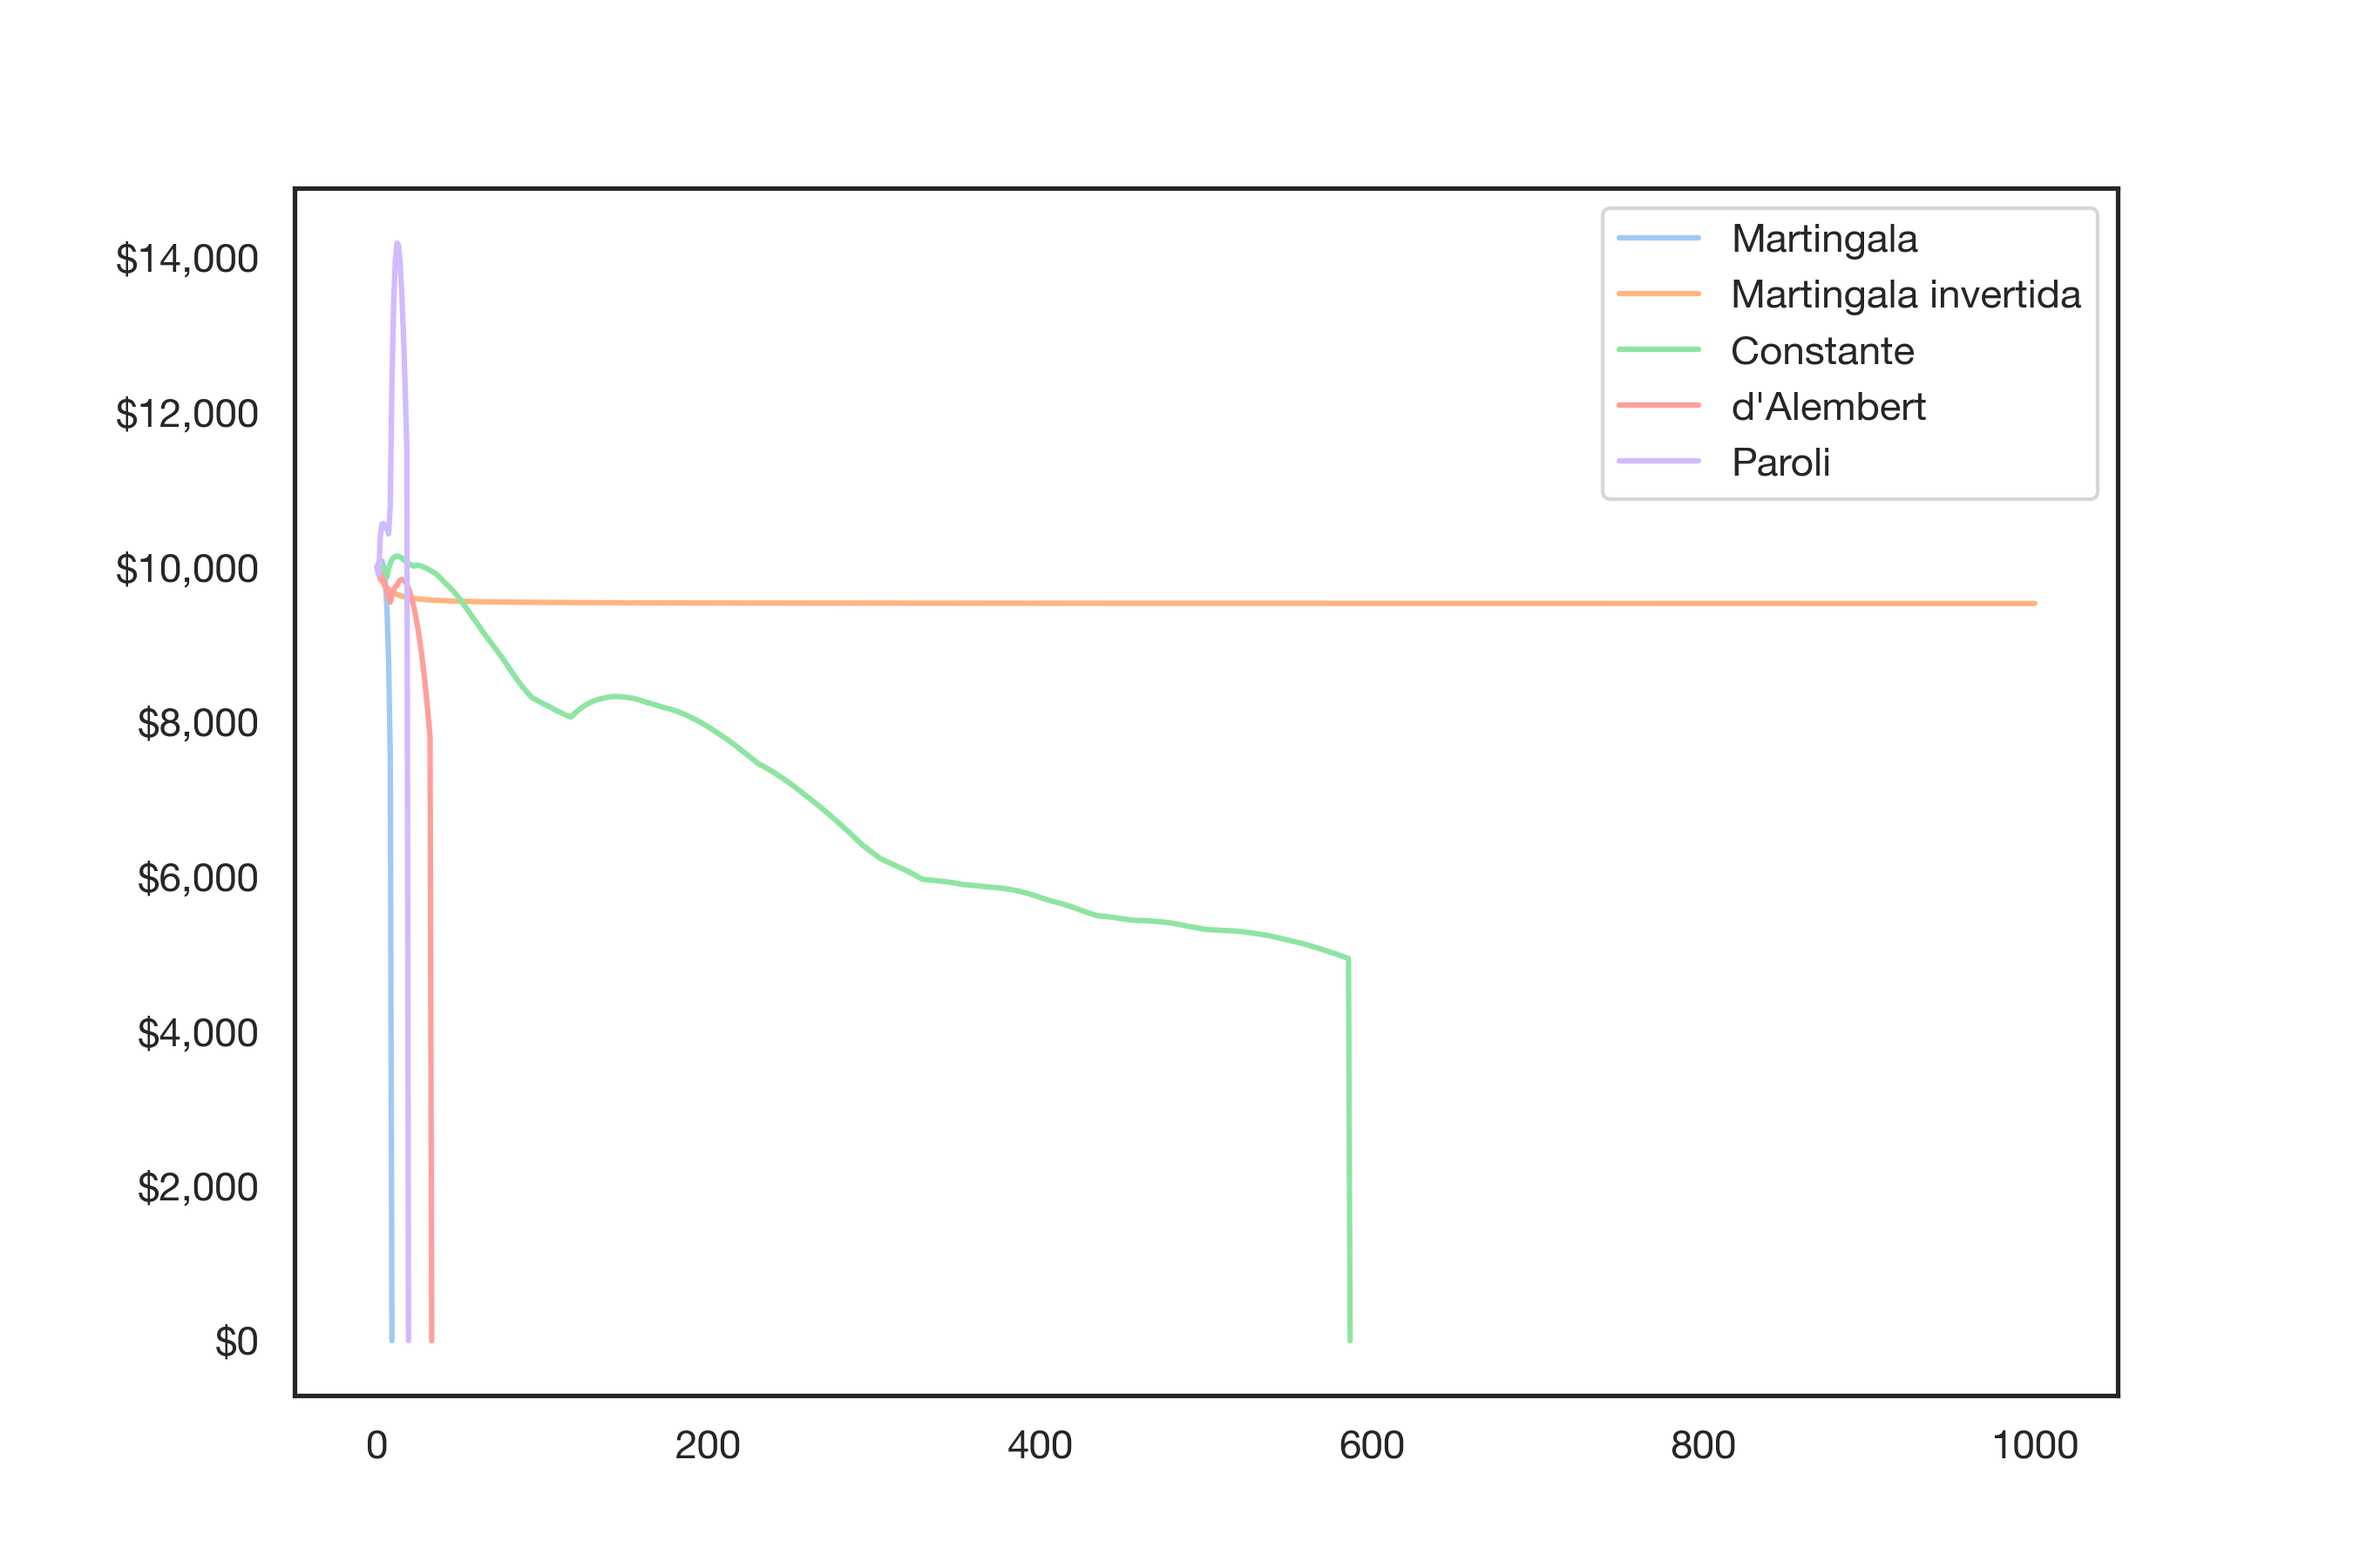
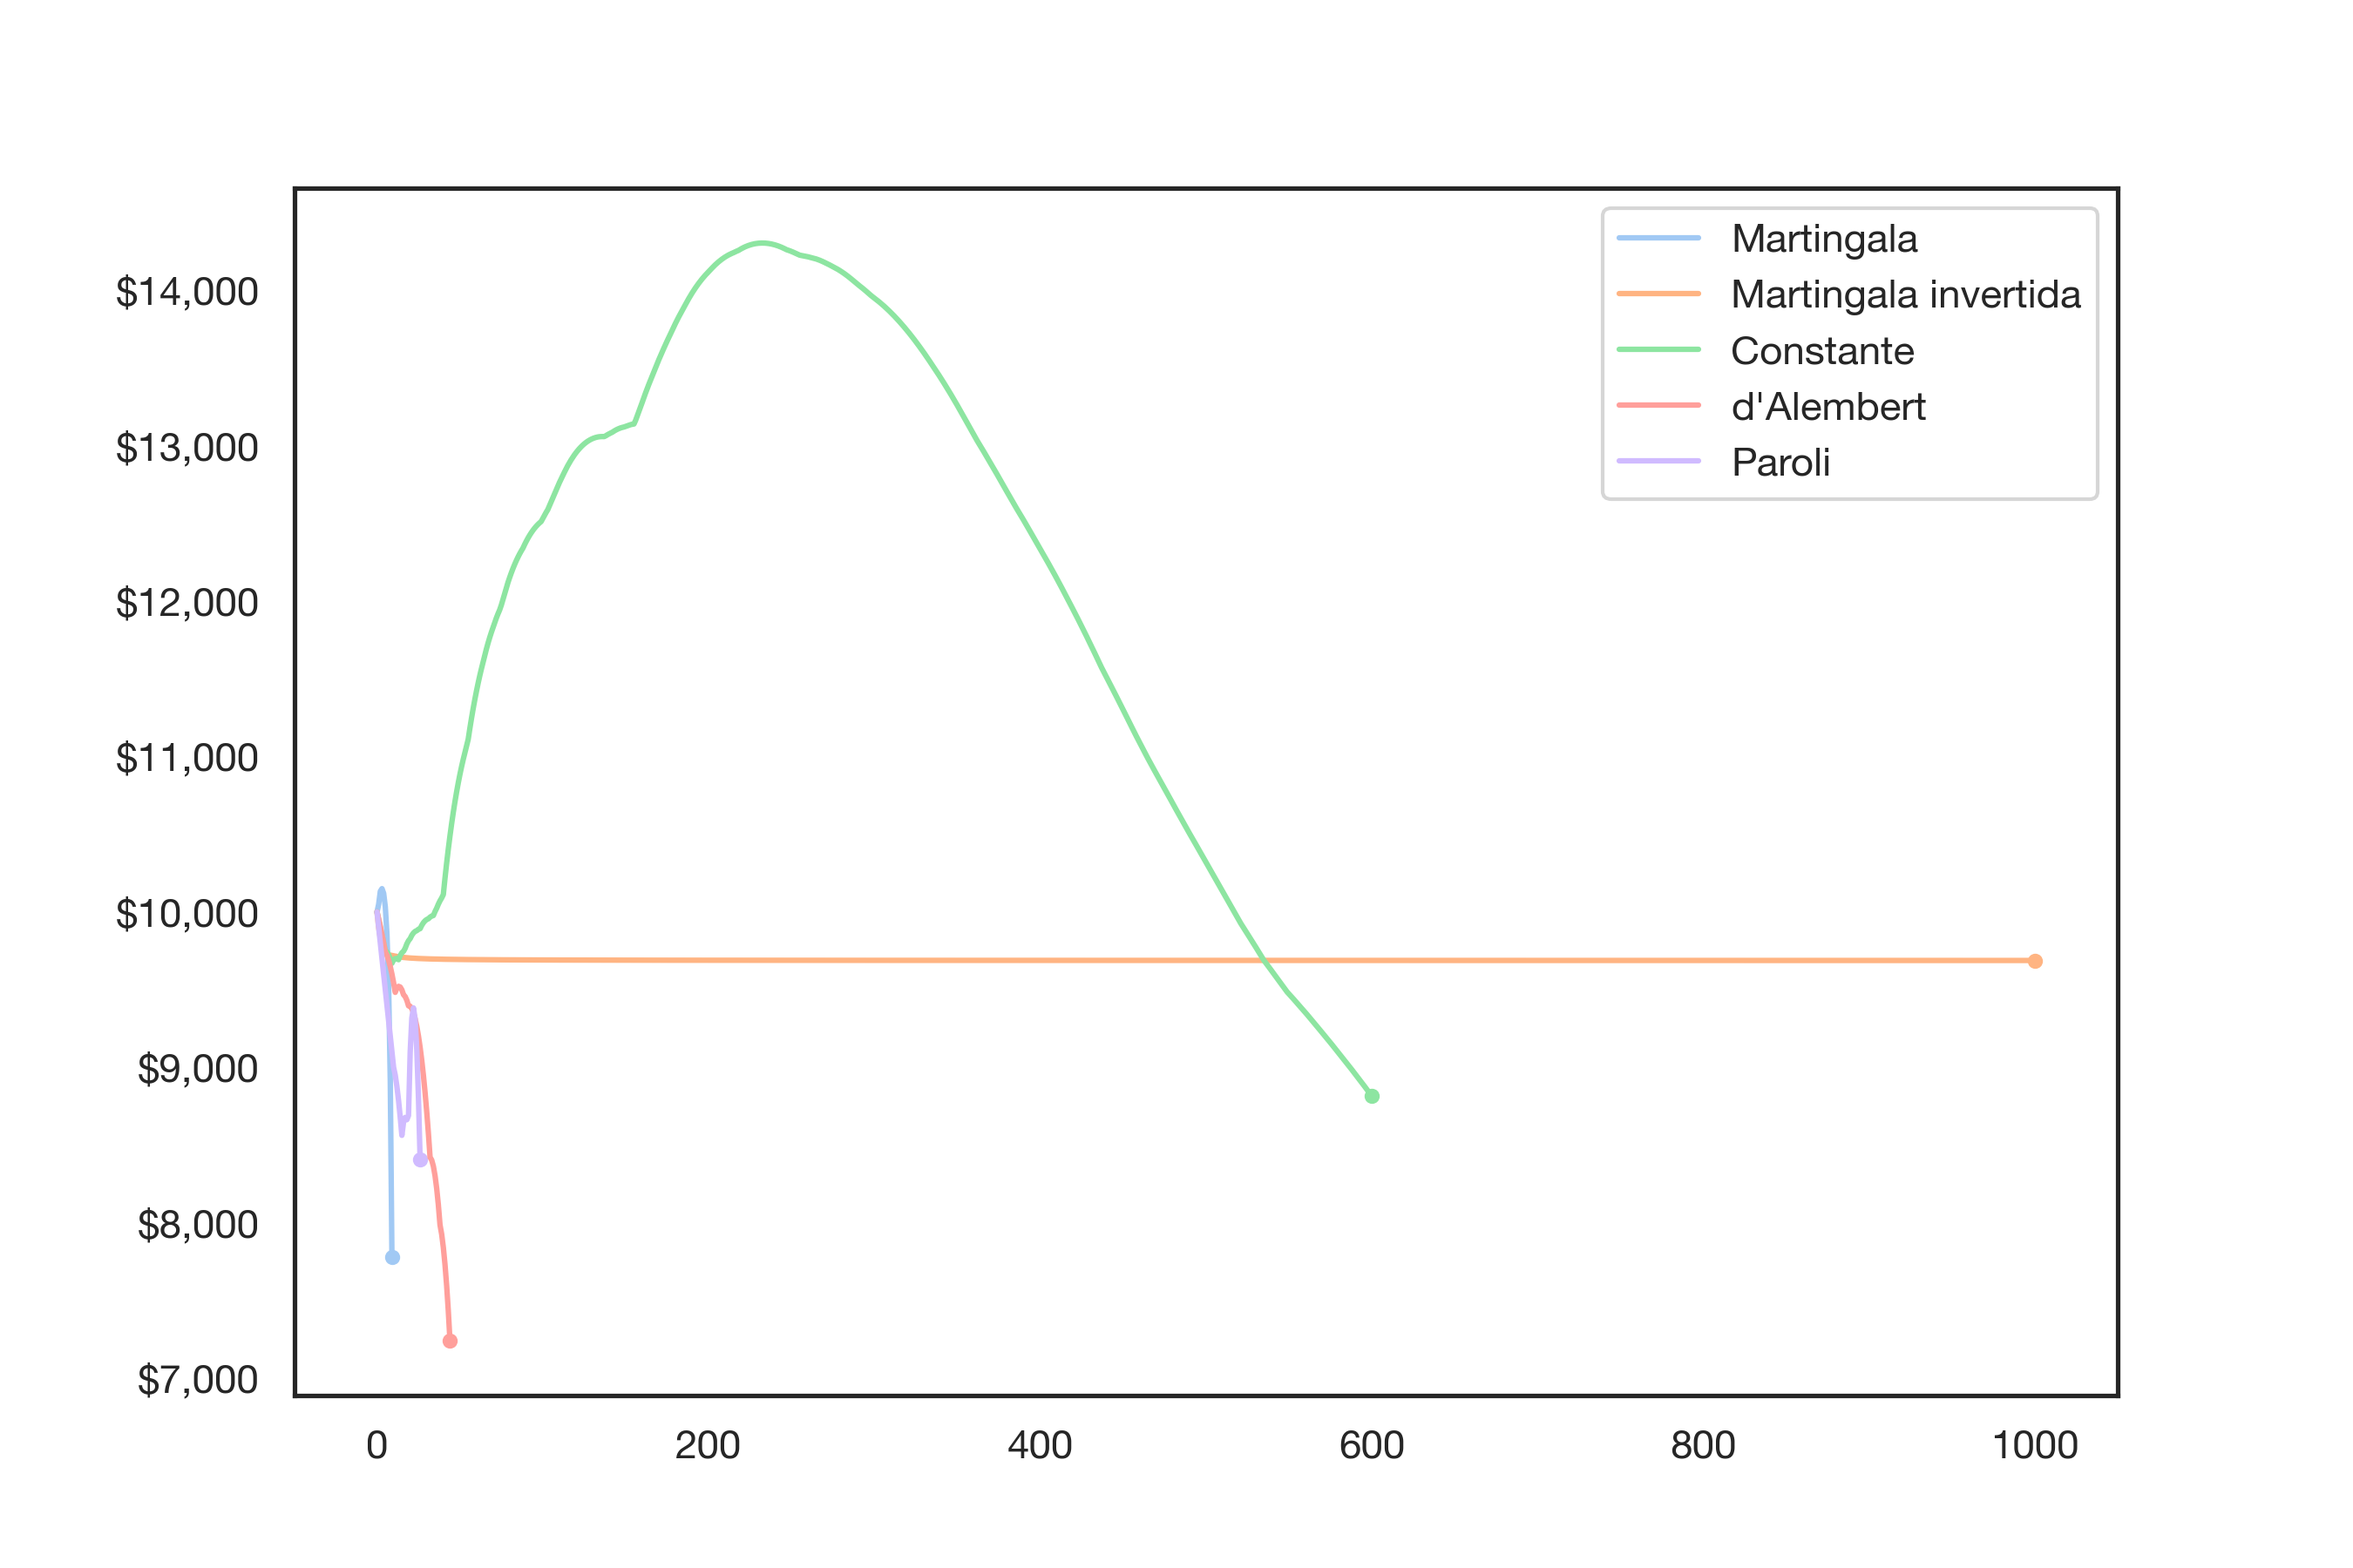
fix simulations

diff --git a/hw1/casino-roulette/simulation.py b/hw1/casino-roulette/simulation.py
@@ -118,10 +118,7 @@ def simulate(strategy, bet_types, starting_funds, max_num_bets):
             previous_result = 1
         else:
             previous_result = 0
-    expected_value = np.cumsum(funds) / np.arange(1, len(funds) + 1)
-    if len(expected_value) < max_num_bets:
-        expected_value = np.append(expected_value, 0)
-    return expected_value
+    return np.cumsum(funds) / np.arange(1, len(funds) + 1)
 
 
 starting_funds = 10000
@@ -157,7 +154,16 @@ for iteration in iterations:
     fig, ax = plt.subplots(figsize=(9, 6), nrows=1, ncols=1)
     for strategy in strategies:
         funds = simulate(strategy, bet_types, starting_funds, iteration)
-        plt.plot(funds, label=strategy)
+        (line,) = plt.plot(funds, label=strategy)
+        last_fund = funds[-1]
+        last_index = len(funds) - 1
+        ax.scatter(
+            last_index,
+            last_fund,
+            marker="o",
+            color=line.get_color(),
+            s=10,
+        )
     plt.legend()
     ax.yaxis.set_major_formatter(formatter)
     plt.savefig(f"fig/{iteration}_its.png")
